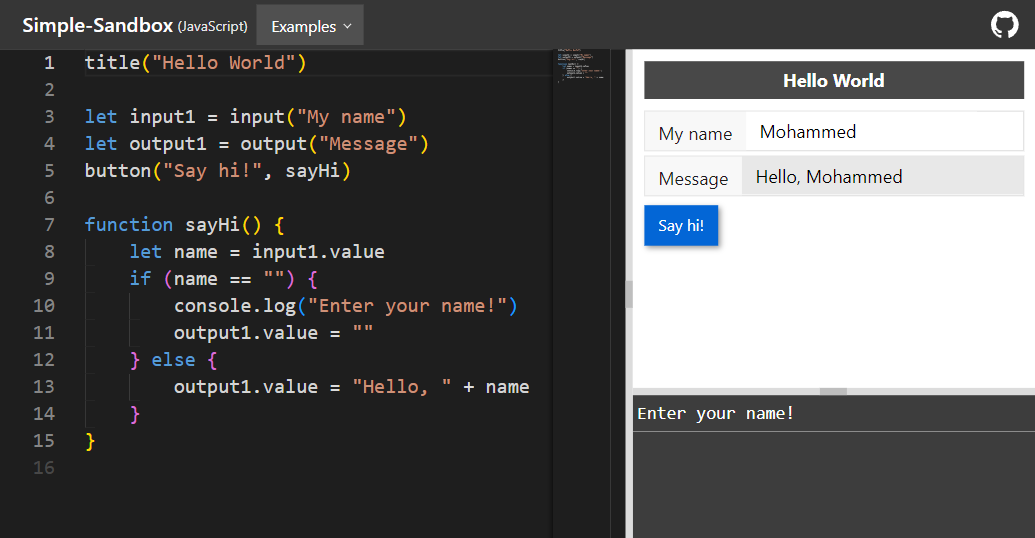
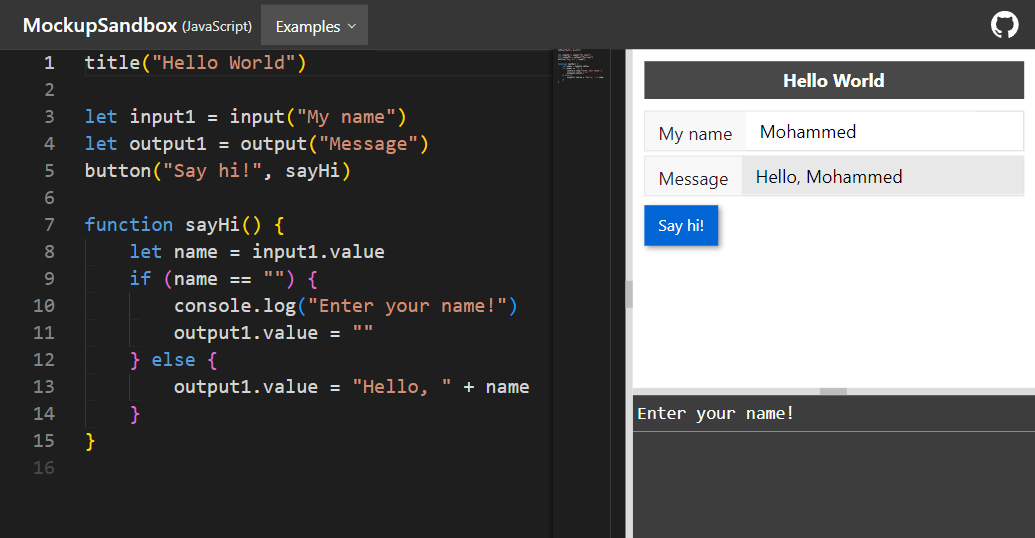
Rename to MockupSandbox

Changed region(s): [[0.0, 0.0297, 0.371, 0.0892]]

diff --git a/index.html b/index.html
@@ -4,7 +4,7 @@
 <head>
   <meta charset="UTF-8">
   <meta name="viewport" content="width=device-width, initial-scale=1.0">
-  <title>Simple-Sandbox</title>
+  <title>MockupSandbox</title>
   <link rel="icon" href="assets/js.png">
   <link rel="stylesheet" href="libs/metroui_v4.5.1.min.css">
   <style>
@@ -47,7 +47,7 @@
 
   <div class="d-flex flex-column" style="height: 100vh;">
     <div id="appbar" class="d-flex flex-align-center px-3">
-      <h6 class="my-1 mx-2 d-inline-flex flex-align-center">Simple-Sandbox <small class="ml-1" style="color: #e7e7e7">(JavaScript)</small></h6>
+      <h6 class="my-1 mx-2 d-inline-flex flex-align-center">MockupSandbox <small class="ml-1" style="color: #e7e7e7">(JavaScript)</small></h6>
       <div class="split-button my-1">
         <button class="dropdown-toggle button dark">Examples</button>
         <ul class="d-menu" data-role="dropdown">
@@ -60,7 +60,7 @@
         </ul>
       </div>
       <span class="flex-grow-self"></span>
-      <a href="https://github.com/mmghv/Simple-Sandbox" target="_blank" title="github page">
+      <a href="https://github.com/mmghv/MockupSandbox" target="_blank" title="github page">
         <img src="assets/github.svg" alt="github" height="30px" style="filter: invert(100%);">
       </a>
     </div>

diff --git a/README.md b/README.md
@@ -1,14 +1,14 @@
-# Simple-Sandbox
+# MockupSandbox
 
-A simple sandbox for learning JavaScript with basic UI controls
+A simple sandbox for learning JavaScript with basic mockup UI controls
 
-https://mmghv.github.io/Simple-Sandbox
+https://mmghv.github.io/MockupSandbox
 
 ![screenshot](screenshot.png)
 
 ---
 
-The main goal of this tool is to provide the student with a simple coding sandbox equipped with a small set of basic UI controls that can be utilized from JavaScript, It enables the learner to focus on fundamental language concepts while connecting these concepts to user interfaces that make sense and not only logging to the console.
+The main goal of this tool is to provide the student with a simple coding sandbox equipped with a small set of basic UI controls for a quick user interface mockup, It enables the learner to focus on fundamental language concepts while connecting these concepts to user interfaces that make sense and not only logging to the console.
 
 ## Who is this for
 
@@ -57,7 +57,7 @@ function click() {
 
 A more advanced table control is available which is ideal for learning loops and working with dynamic lists (Arrays and Objects could also be used).
 
-A full example of working with the table can be found [here](https://mmghv.github.io/Simple-Sandbox/index.html?example=table).
+A full example of working with the table can be found [here](https://mmghv.github.io/MockupSandbox?example=table).
 
 ### Other methods & tools
 
